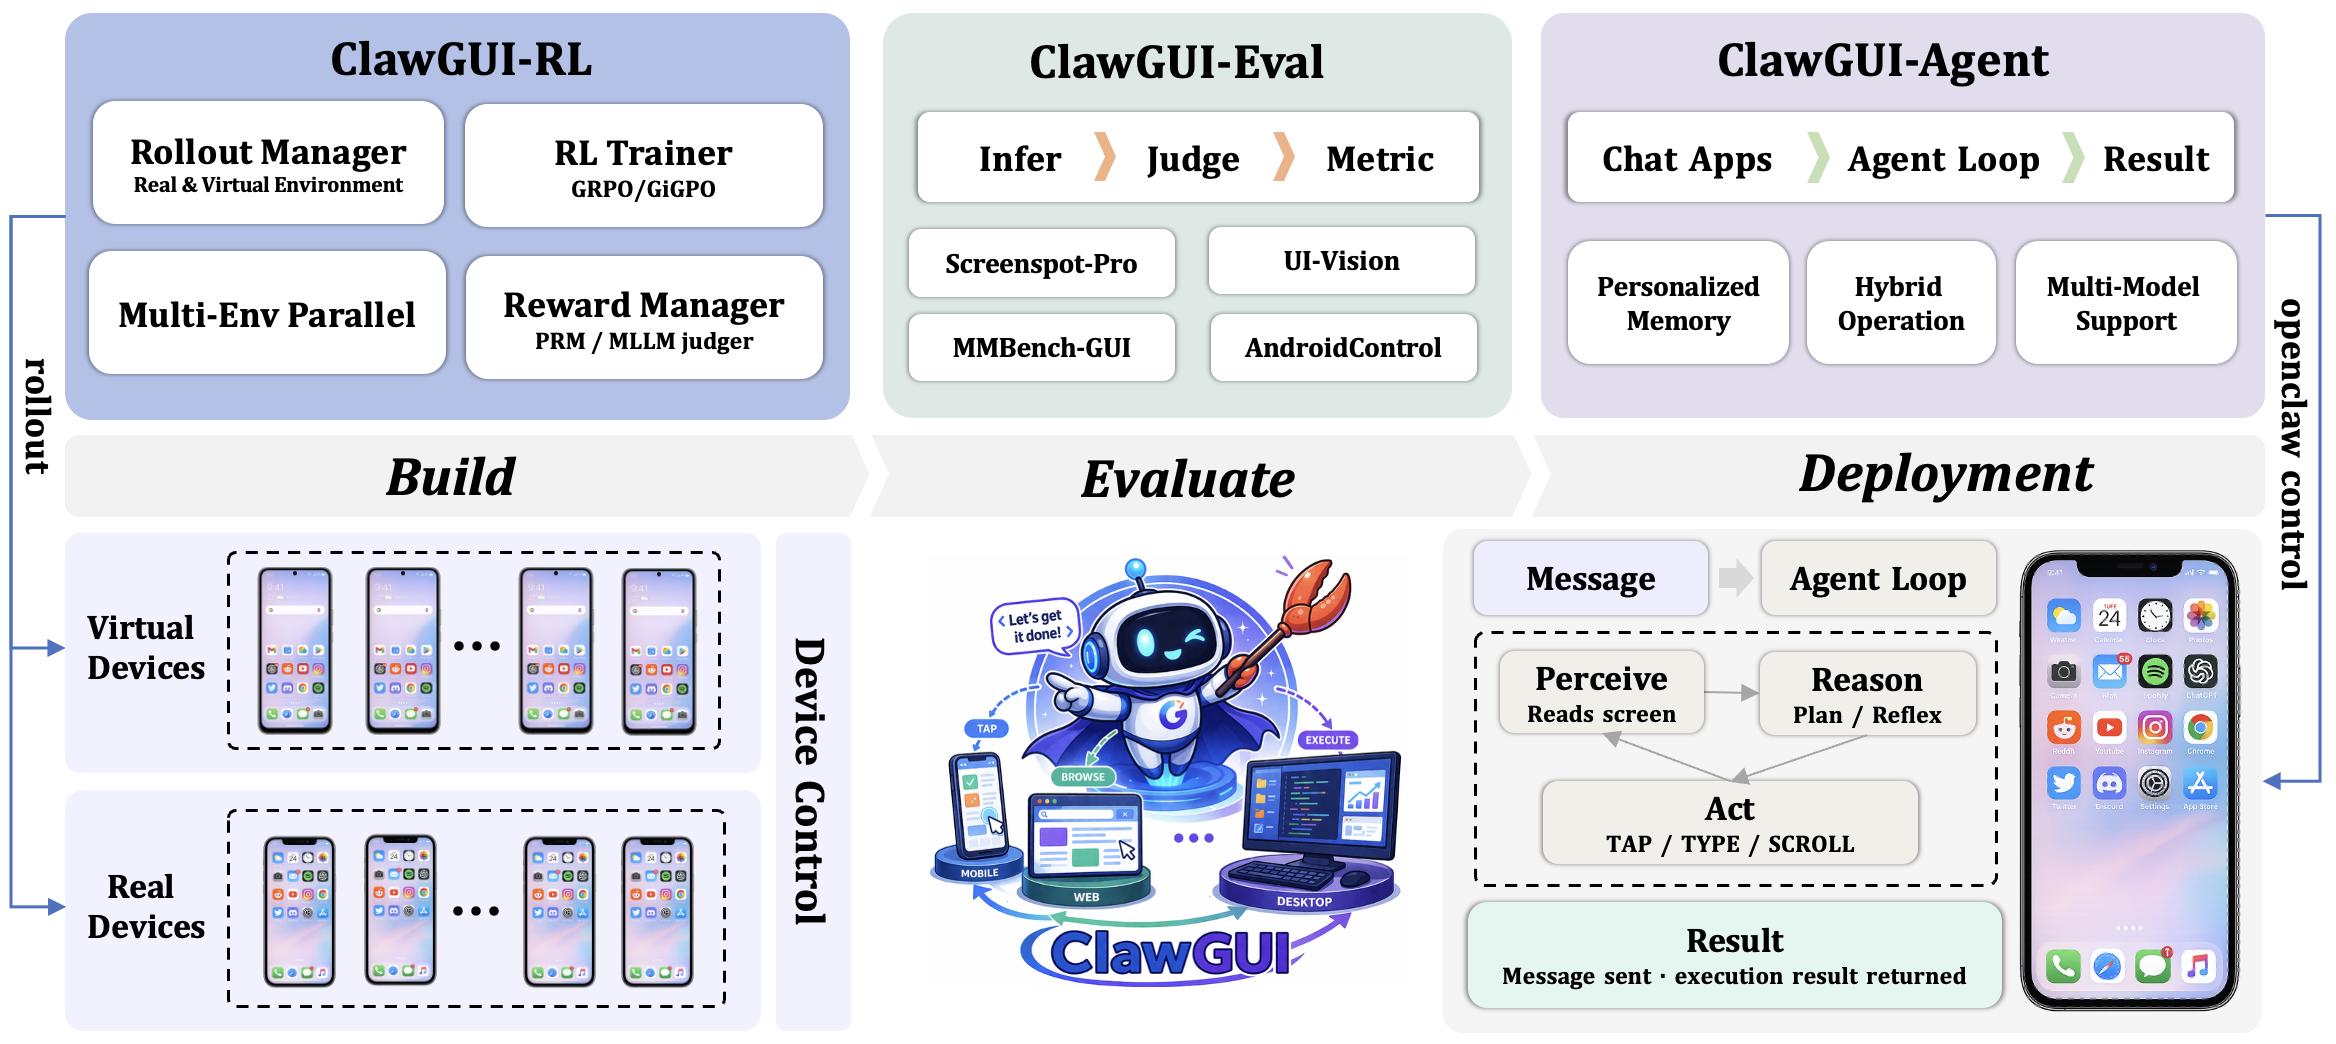
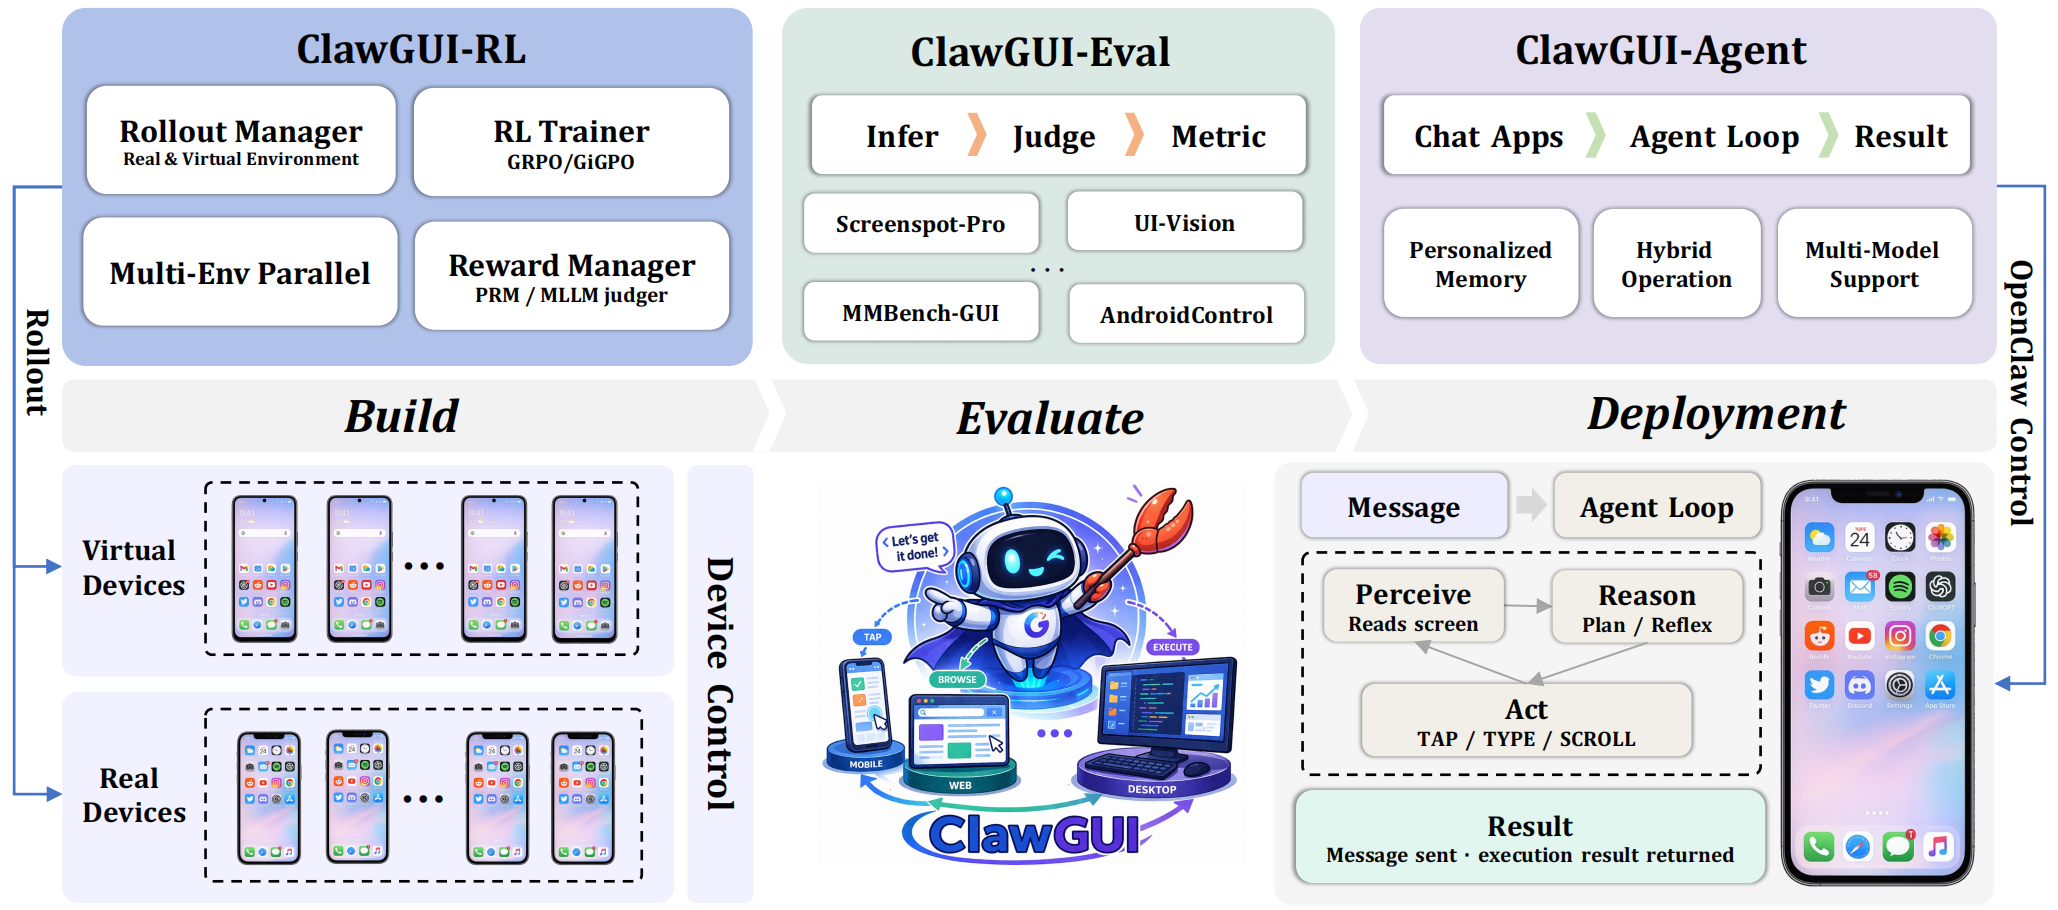
Update Figure

diff --git a/README_zh.md b/README_zh.md
@@ -56,9 +56,9 @@
 
 ## 📖 概述
 
-**ClawGUI** 是一个面向 GUI 智能体的研究框架，覆盖从**在线强化学习训练**、**标准化评测**到**真机部署**的完整生命周期。
+**ClawGUI** 是一个面向 GUI Agent的全栈式研究框架，涵盖 **Online Agentic RL 训练**、**标准评测**、**OpenClaw 部署**三大模块。
 
-构建一个有能力的 GUI 智能体，涉及三个紧密耦合却鲜少被同时解决的问题：需要一个在线训练环境、一套严格的评测基准来衡量模型学到了什么，以及一个能在真实设备上落地的部署系统。ClawGUI 将这三件事打通。
+构建一个有能力的 GUI 智能体，涉及三个紧密耦合却鲜少被同时解决的问题：需要一个在线强化学习训练环境、一套严格的评测基准，以及一个能在真实设备上落地的部署系统。ClawGUI 将这三件事打通。
 
 | 模块 | 角色 |
 |------|------|

diff --git a/README.md b/README.md
@@ -19,7 +19,7 @@
 
 
 <div align="center">
-<b>A unified research framework: train GUI agents with RL, measure them rigorously, deploy them on real devices.</b>
+<b>A full-stack framework for GUI agents, covering online RL training, standardized evaluation, and deployment.</b>
 
 <table>
 <tr>
